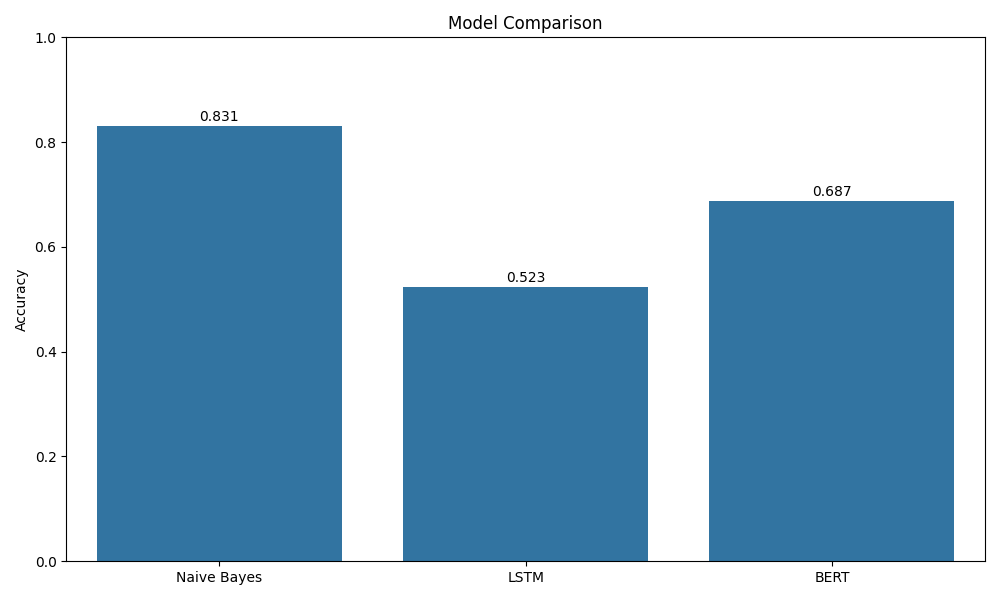
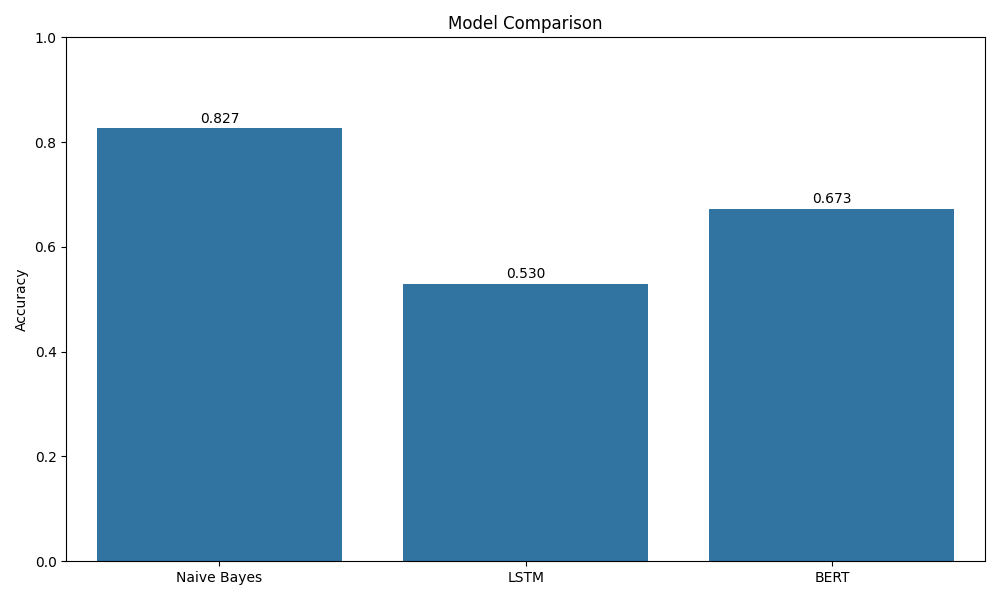
update files for Streamlit Cloud deployment

Changed region(s): [[0.713, 0.3, 0.961, 0.36], [0.124, 0.18, 0.341, 0.24], [0.403, 0.45, 0.651, 0.48]]

diff --git a/utils.py b/utils.py
@@ -1,65 +1,89 @@
 import re
+import os
 import nltk
-from nltk.corpus import stopwords
-from nltk.stem import PorterStemmer
 import joblib
 import torch
 import torch.nn as nn
 from transformers import BertForSequenceClassification, BertTokenizer
 from sklearn.feature_extraction.text import TfidfVectorizer
 import pandas as pd
-import numpy as np
-import os
+from pathlib import Path
+from nltk.stem import PorterStemmer
 
-nltk.download('stopwords', quiet=True)
-stop_words = set(stopwords.words('english'))
+BASE_DIR = Path(__file__).parent.resolve()
+NLTK_DATA_DIR = os.path.join(BASE_DIR, "nltk_data")
+os.makedirs(NLTK_DATA_DIR, exist_ok=True)
+nltk.data.path.insert(0, NLTK_DATA_DIR)
+
+def download_nltk_data():
+    try:
+        nltk.data.find('corpora/stopwords')
+    except LookupError:
+        try:
+            nltk.download('stopwords', download_dir=NLTK_DATA_DIR, quiet=True)
+        except Exception:
+            pass
+
+download_nltk_data()
+
+try:
+    stop_words = set(nltk.corpus.stopwords.words("english"))
+except:
+    stop_words = set()
+
 stemmer = PorterStemmer()
+
+MODELS_DIR = os.path.join(BASE_DIR, "models")
+DATA_DIR = os.path.join(BASE_DIR, "data")
+
 
 def preprocess_text(text):
     text = re.sub('[^a-zA-Z]', ' ', str(text).lower())
-    tokens = [stemmer.stem(word) for word in text.split() if word not in stop_words and len(word) > 2]
+    tokens = [stemmer.stem(word) for word in text.split() 
+              if word not in stop_words and len(word) > 2]
     return ' '.join(tokens)
 
+
 def load_nb_model():
-    """Load NB model and TF-IDF vectorizer."""
-    if os.path.exists('models/nb_model.pkl') and os.path.exists('models/tfidf_vectorizer.pkl'):
-        model = joblib.load('models/nb_model.pkl')
-        vectorizer = joblib.load('models/tfidf_vectorizer.pkl')
-        return model, vectorizer
-    print("NB models not found.")
+    nb_path = os.path.join(MODELS_DIR, "nb_model.pkl")
+    tfidf_path = os.path.join(MODELS_DIR, "tfidf_vectorizer.pkl")
+    if os.path.exists(nb_path) and os.path.exists(tfidf_path):
+        return joblib.load(nb_path), joblib.load(tfidf_path)
     return None, None
 
+
 def predict_nb(model, vectorizer, text):
-    """Predict with NB."""
     clean_text = preprocess_text(text)
     vec = vectorizer.transform([clean_text])
     prob = model.predict_proba(vec)[0]
     label = model.predict(vec)[0]
     return 'positive' if label == 1 else 'negative', prob[1]
 
+
 def load_vocab():
-    """Load vocab or return None."""
-    try:
-        if os.path.exists('models/vocab.pkl'):
-            return joblib.load('models/vocab.pkl')
-    except FileNotFoundError:
-        pass
+    vocab_path = os.path.join(MODELS_DIR, "vocab.pkl")
+    if os.path.exists(vocab_path):
+        try:
+            return joblib.load(vocab_path)
+        except:
+            pass
     return None
 
+
 def load_lstm_model(vocab_size):
-    """Load LSTM model - keep arg for app.py compat, but prefer saved vocab."""
     try:
         vocab = load_vocab()
         if vocab:
             vocab_size = len(vocab)
         model = LSTMModel(vocab_size)
-        if os.path.exists('models/lstm_model.pth'):
-            checkpoint = torch.load('models/lstm_model.pth', map_location='cpu')
-            model.load_state_dict(checkpoint)
+        lstm_path = os.path.join(MODELS_DIR, "lstm_model.pth")
+        if os.path.exists(lstm_path):
+            model.load_state_dict(torch.load(lstm_path, map_location="cpu"))
         model.eval()
         return model
-    except (FileNotFoundError, Exception):
+    except:
         return None
+
 
 class LSTMModel(torch.nn.Module):
     def __init__(self, vsize):
@@ -75,28 +99,28 @@ class LSTMModel(torch.nn.Module):
         out = self.fc(h.squeeze(0))
         return self.sigmoid(out)
 
+
 def predict_lstm(model, vocab, text, max_len=200):
-    """Predict with LSTM."""
     clean_text = preprocess_text(text)
     tokens = [vocab.get(word, 0) for word in clean_text.split()]
     seq = torch.tensor([tokens[:max_len] + [0]*(max_len - len(tokens))])
     with torch.no_grad():
         prob = model(seq).squeeze().item()
-    label = 'positive' if prob > 0.5 else 'negative'
-    return label, prob
+    return ('positive' if prob > 0.5 else 'negative', prob)
+
 
 def load_bert_model():
-    """Load BERT model and tokenizer."""
     try:
-        model = BertForSequenceClassification.from_pretrained('models/bert_model')
-        tokenizer = BertTokenizer.from_pretrained('models/bert_tokenizer')
+        model_path = os.path.join(MODELS_DIR, "bert_model")
+        tokenizer_path = os.path.join(MODELS_DIR, "bert_tokenizer")
+        model = BertForSequenceClassification.from_pretrained(model_path)
+        tokenizer = BertTokenizer.from_pretrained(tokenizer_path)
         return model, tokenizer
-    except (FileNotFoundError, Exception):
-        print("BERT models not found.")
+    except:
         return None, None
 
+
 def predict_bert(model, tokenizer, text, device='cpu'):
-    """Predict with BERT."""
     inputs = tokenizer(text, return_tensors='pt', padding=True, truncation=True, max_length=256).to(device)
     model.to(device)
     model.eval()
@@ -106,8 +130,8 @@ def predict_bert(model, tokenizer, text, device='cpu'):
         label = torch.argmax(probs, dim=1).item()
     return 'positive' if label == 1 else 'negative', probs[0][1].item()
 
+
 def build_vocab(df):
-    """Build vocab from df."""
     all_words = " ".join(df["clean_review"]).split()
     vocab = {word: i + 1 for i, word in enumerate(set(all_words))}
     return vocab

diff --git a/train_all_models.py b/train_all_models.py
@@ -10,7 +10,7 @@ from torch.utils.data import Dataset, DataLoader
 from transformers import BertTokenizer, BertForSequenceClassification, Trainer, TrainingArguments
 from datasets import Dataset as HFDataset
 
-from utils import preprocess_text, load_vocab, build_vocab, LSTMModel
+from utils import preprocess_text, build_vocab, LSTMModel
 
 
 class TextDataset(Dataset):
@@ -32,7 +32,7 @@ class TextDataset(Dataset):
 def train_nb_and_lstm(
     data_path: str = "data/IMDB Dataset.csv",
     nb_vectorizer_max_features: int = 5000,
-    lstm_samples: int = 3000,
+    lstm_samples: int = 2000,
     max_len: int = 200,
     lstm_epochs: int = 2,
     batch_size: int = 32,
@@ -47,13 +47,10 @@ def train_nb_and_lstm(
     df["clean_review"] = df["review"].apply(preprocess_text)
     df["label"] = (df["sentiment"] == "positive").astype(int)
 
-    # Train Naive Bayes on full dataset (clean_review)
+    # Naive Bayes
     X_train, _, y_train, _ = train_test_split(
-        df["clean_review"],
-        df["label"],
-        test_size=0.2,
-        random_state=seed,
-        stratify=df["label"],
+        df["clean_review"], df["label"], test_size=0.2,
+        random_state=seed, stratify=df["label"]
     )
 
     vectorizer = TfidfVectorizer(max_features=nb_vectorizer_max_features)
@@ -65,17 +62,14 @@ def train_nb_and_lstm(
     joblib.dump(nb_model, "models/nb_model.pkl")
     joblib.dump(vectorizer, "models/tfidf_vectorizer.pkl")
 
-    # Train LSTM on a subset
+    # LSTM
     df_small = df.sample(n=lstm_samples, random_state=seed) if len(df) > lstm_samples else df
     vocab = build_vocab(df_small)
     joblib.dump(vocab, "models/vocab.pkl")
 
     X_train, _, y_train, _ = train_test_split(
-        df_small["clean_review"],
-        df_small["label"],
-        train_size=0.8,
-        random_state=seed,
-        stratify=df_small["label"],
+        df_small["clean_review"], df_small["label"],
+        train_size=0.8, random_state=seed, stratify=df_small["label"]
     )
 
     train_ds = TextDataset(X_train, y_train, vocab=vocab, max_len=max_len)
@@ -88,23 +82,26 @@ def train_nb_and_lstm(
     criterion = torch.nn.BCELoss()
 
     model.train()
-    for _ in range(lstm_epochs):
+    for epoch in range(lstm_epochs):
+        total_loss = 0
         for data, target in loader:
             data = data.to(device)
             target = target.to(device)
-
             optimizer.zero_grad()
             output = model(data).squeeze()
             loss = criterion(output, target.float())
             loss.backward()
             optimizer.step()
+            total_loss += loss.item()
+        print(f"LSTM Epoch {epoch+1}/{lstm_epochs} - Loss: {total_loss/len(loader):.4f}")
 
     torch.save(model.state_dict(), "models/lstm_model.pth")
+    print(f"✅ LSTM trained on {lstm_samples} samples")
 
 
 def train_bert(
     data_path: str = "data/IMDB Dataset.csv",
-    samples: int = 600,
+    samples: int = 600,         
     test_size: float = 0.2,
     max_length: int = 128,
     num_train_epochs: int = 1,
@@ -121,10 +118,7 @@ def train_bert(
 
     df_sample = df.sample(n=samples, random_state=seed) if len(df) > samples else df
     train_df, test_df = train_test_split(
-        df_sample,
-        test_size=test_size,
-        random_state=seed,
-        stratify=df_sample["label"],
+        df_sample, test_size=test_size, random_state=seed, stratify=df_sample["label"]
     )
 
     tokenizer = BertTokenizer.from_pretrained("bert-base-uncased")
@@ -138,7 +132,6 @@ def train_bert(
         )
 
     train_dataset = HFDataset.from_pandas(train_df).map(tokenize_function, batched=True)
-    test_dataset = HFDataset.from_pandas(test_df).map(tokenize_function, batched=True)
 
     model = BertForSequenceClassification.from_pretrained("bert-base-uncased", num_labels=2)
 
@@ -147,34 +140,39 @@ def train_bert(
         num_train_epochs=num_train_epochs,
         per_device_train_batch_size=batch_size,
         per_device_eval_batch_size=batch_size,
-        warmup_steps=100,
+        warmup_steps=50,
         weight_decay=0.01,
         logging_steps=10,
-        evaluation_strategy="epoch" if num_train_epochs >= 1 else "no",
+        eval_strategy="no",        
+        save_strategy="no",
+        report_to="none",
     )
 
     trainer = Trainer(
         model=model,
         args=training_args,
         train_dataset=train_dataset,
-        eval_dataset=test_dataset,
     )
+    
+    print(f"Training BERT on {samples} samples...")
     trainer.train()
 
     model.save_pretrained("models/bert_model")
     tokenizer.save_pretrained("models/bert_tokenizer")
+    print("✅ BERT training completed")
 
 
 def main() -> None:
-    print("Training Naive Bayes + LSTM...")
+    print("🚀 Starting training...")
+
+    print("\n1. Training Naive Bayes + LSTM...")
     train_nb_and_lstm()
-    print("✅ Naive Bayes + LSTM ready.")
 
-    print("Training BERT...")
+    print("\n2. Training BERT (Light version)...")
     train_bert()
-    print("✅ BERT ready.")
 
-    print("All models trained. Start app: streamlit run app.py")
+    print("\n✅ All models trained successfully!")
+    print("Run: streamlit run app.py")
 
 
 if __name__ == "__main__":